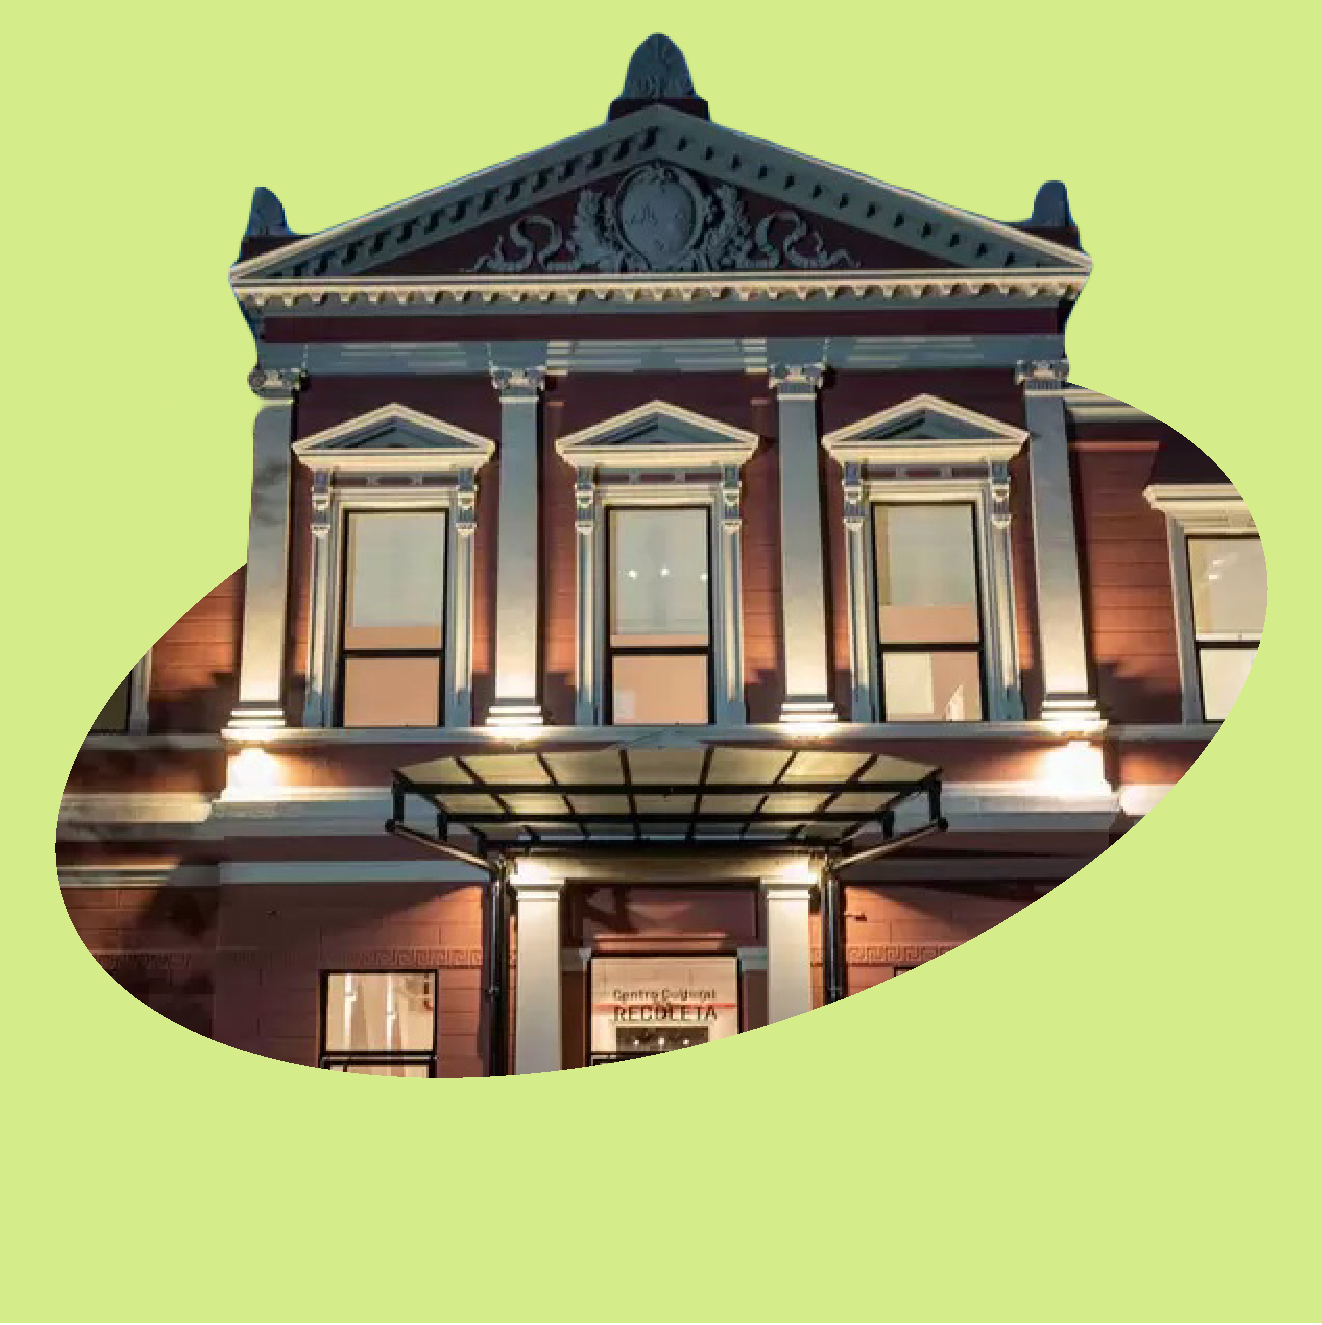
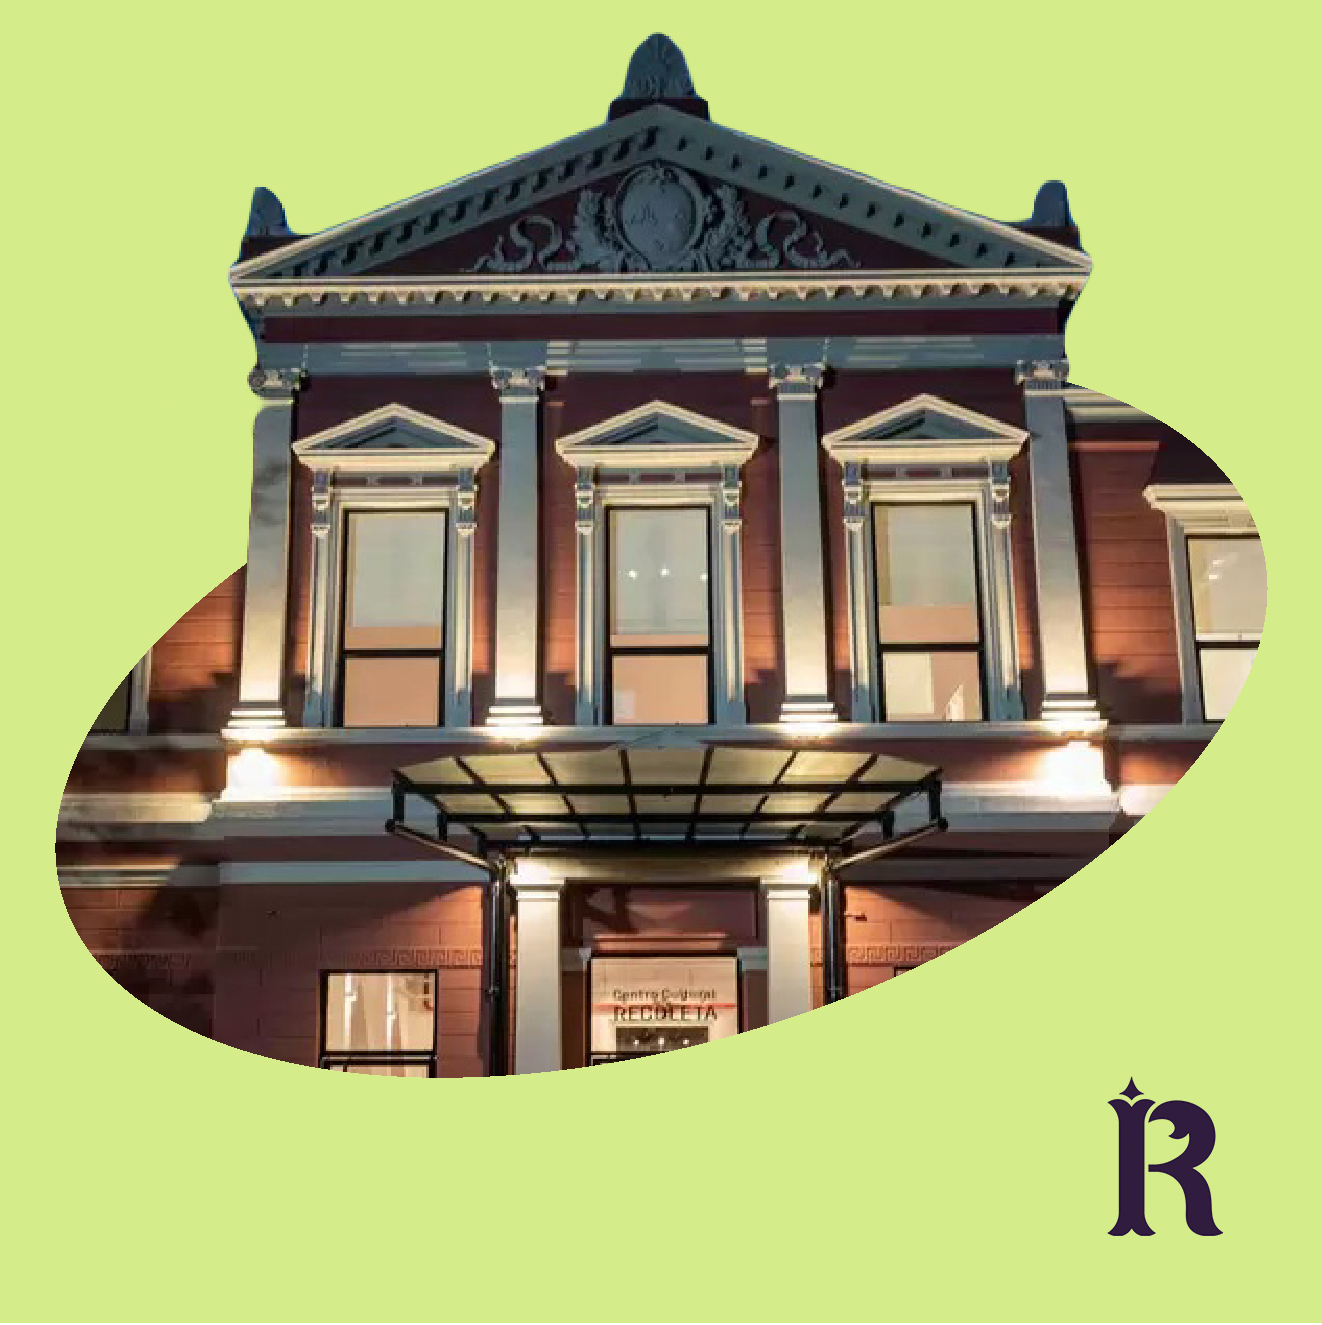
actualizacion ccr

Changed region(s): [[0.8374, 0.8045, 0.9304, 0.9592]]

diff --git a/ccr.html b/ccr.html
@@ -37,7 +37,52 @@
     </header>
 
     <main>
-<!--ACÁ PONGAN TODO EL CONTENIDO DE LA PAGINA AHRE QUE ERA OBVIO, puede que si ponen algo chiquito no se vea pq lo cubre el header--> 
+        <section class="ccr-hero">
+            <div class="ccr-hero-text">
+                <nav>
+                    <a href="#">Arte & Cultura</a>
+                    <a href="#" aria-current="page">Centro Cultural Recoleta</a>
+                </nav>
+            </div>
+            <article class="ccr-presentacion">
+                <div class="ccr-presentacion-text">
+                    <h1> <strong>Centro Cultural</strong> Recoleta</h1>
+                    <h4>Junín 1930</h4>
+                    <p>El <strong>Centro Cultural Recoleta</strong> es, desde comienzos de los años 80, un espacio emblemático de la vida
+                        de la Ciudad de Buenos Aires. Proyectado en un predio con 300 años de historia, su programación
+                        conecta tradición y vanguardia, y es visitado por más de medio millón de personas al año.
+                        En sus 17 mil metros cuadrados conviven las artes visuales y las escénicas, la literatura, la
+                        musica y la danza. Alberga muestras de artistas nacionales y extranjeros, cuenta con patios y
+                        espacios de permanencia que funcionan como refugios urbanos y dispone de salas de baile y entrenamiento.
+                    </p>
+                </div>
+                <img src="img/web/arte/1-ccr.jpg" alt="Centro Cultural Recoleta" width="480">
+            </article>
+        </section>
+
+        <section class="ccr-saber-que">
+            <article class="ccr-saber-text">
+                Es bueno saber que...
+                <p>
+                    Este espacio cuenta con salas de artes visuales, un microcine, un auditorio, un anfiteatro, la
+                    histórica sala La Capilla, un laboratorio de música, zonas de estudio y una amplia terraza.
+                </p>
+            </article>
+        </section>
+
+        <section class="ccr-video">
+            <!--ACÁ VA EL VIDEO DE CCR-->
+        </section>
+
+        <section class="ccr-galeria">
+            <article class="ccr-galeria-text">
+                <p>
+                    Experimentación, creación, memoria, participación y convivencia son algunos de los valores que
+                    determinan el cruce de las actividades que el CCR propone.
+                </p>
+            </article>
+        </section>
+
     </main>
 
     <footer>

diff --git a/styles-conozca-recoleta.css b/styles-conozca-recoleta.css
@@ -569,12 +569,76 @@ nav a {
 
 /*CENTRO CULRTURAL*/
 
+.ccr-hero {
+    margin-top: 80px;
+    padding: 40px 60px;
+}
+
+.ccr-hero nav {
+    font-family: 'Asap', sans-serif;
+    font-size: 15px;
+    margin-bottom: 30px;
+}
+
+.ccr-hero nav a {
+    text-decoration: none;
+}
+
+.ccr-hero nav a:after {
+    content: " >";
+    margin: 0 8px;
+    color: var(--violeta-recoleta);
+}
+
+.ccr-hero nav a:last-child:after {
+    content: "";
+}
+
+.ccr-hero nav a:first-child {
+    font-weight: 700;
+}
+
+.ccr-presentacion {
+    display: flex;
+    justify-content: space-between;
+    align-items: flex-start;
+    gap: 60px;
+    padding: 0px 100px;
+}
 
 
+.ccr-presentacion-text h1 {
+    font-family: 'Inter', sans-serif;
+    font-weight: normal;
+    margin: 0 0 10px 0;
+    padding-bottom: 15px;
+    border-bottom: 2px solid var(--violeta-recoleta);
 
+}
 
+.ccr-presentacion-text h4 {
+    font-weight: 400 !important;
+    color: var(--violeta-recoleta);
+    margin-top: 0;
+    margin-bottom: 30px;
+    padding-bottom: 12px;
 
+}
 
+.ccr-presentacion-text p {
+    font-family: 'Asap', sans-serif;
+    font-weight: 500;
+    font-size: 20px;
+    margin: 0;
+}
+
+.ccr-presentacion img {
+    max-width: 100%;
+    height: auto;
+    display: block;
+    border-radius: 30px;
+    box-shadow: 7.525px 12.542px 9.197px 2.508px rgba(0, 0, 0, 0.25);
+}
 
 
 
